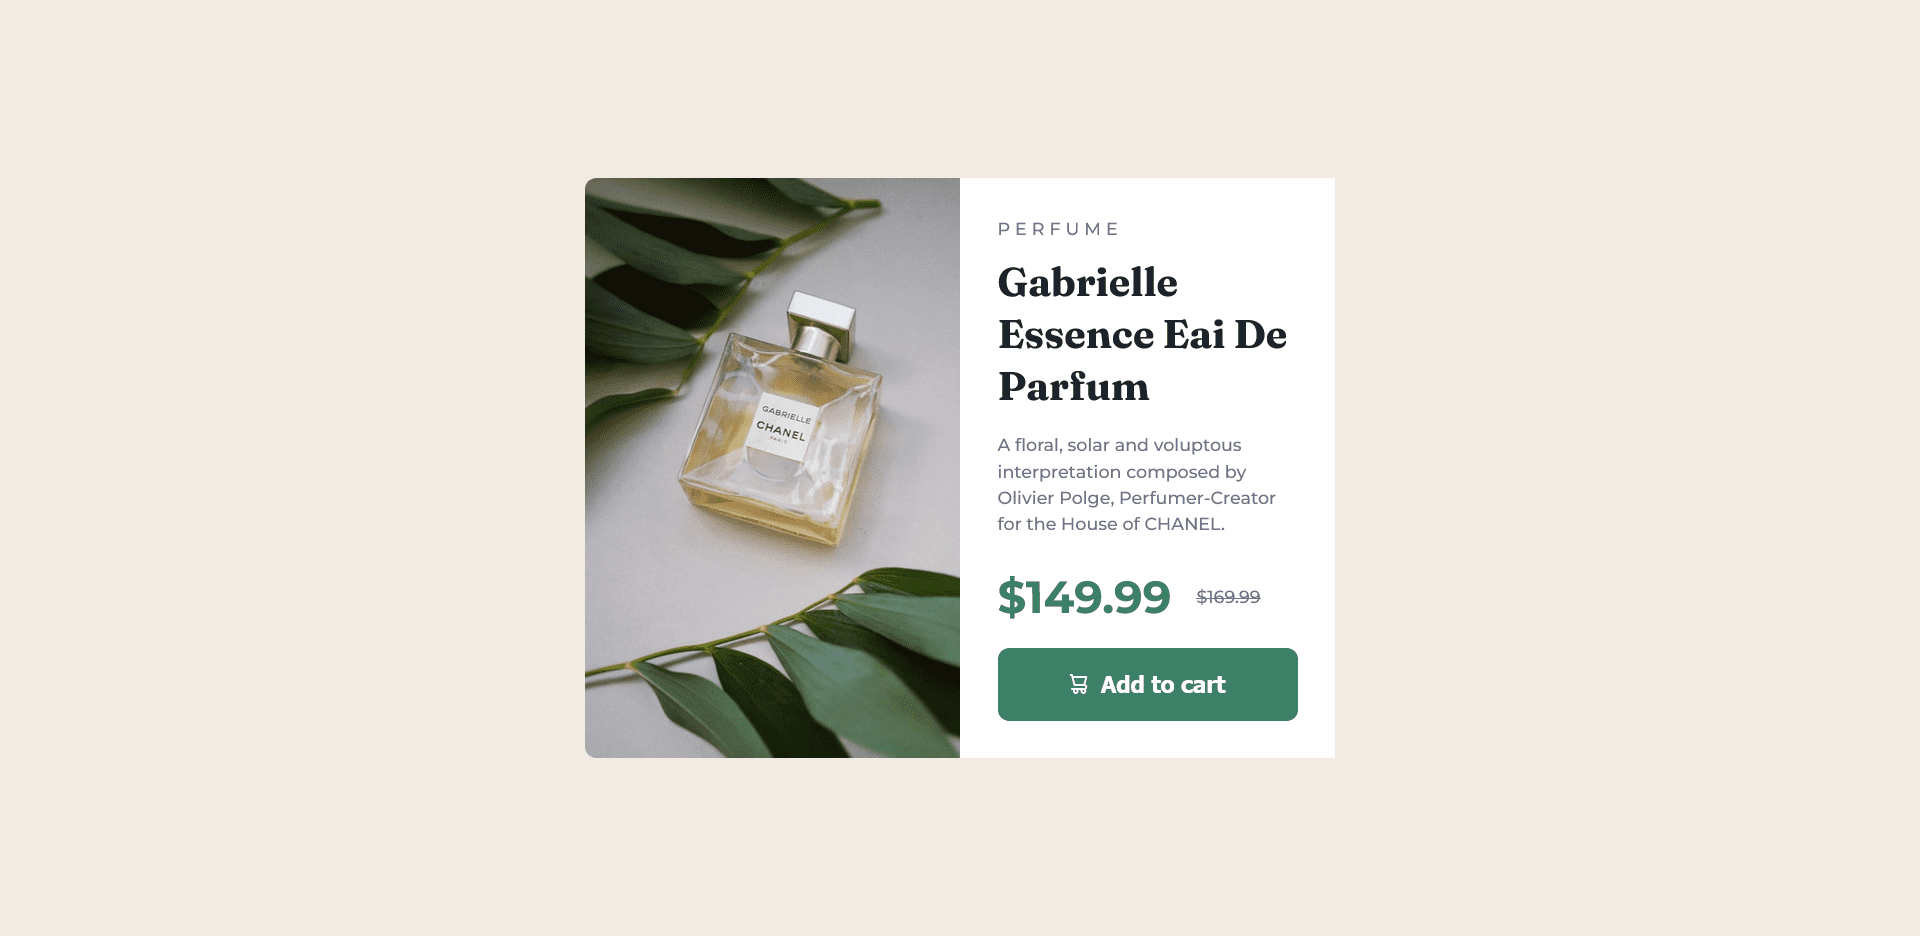
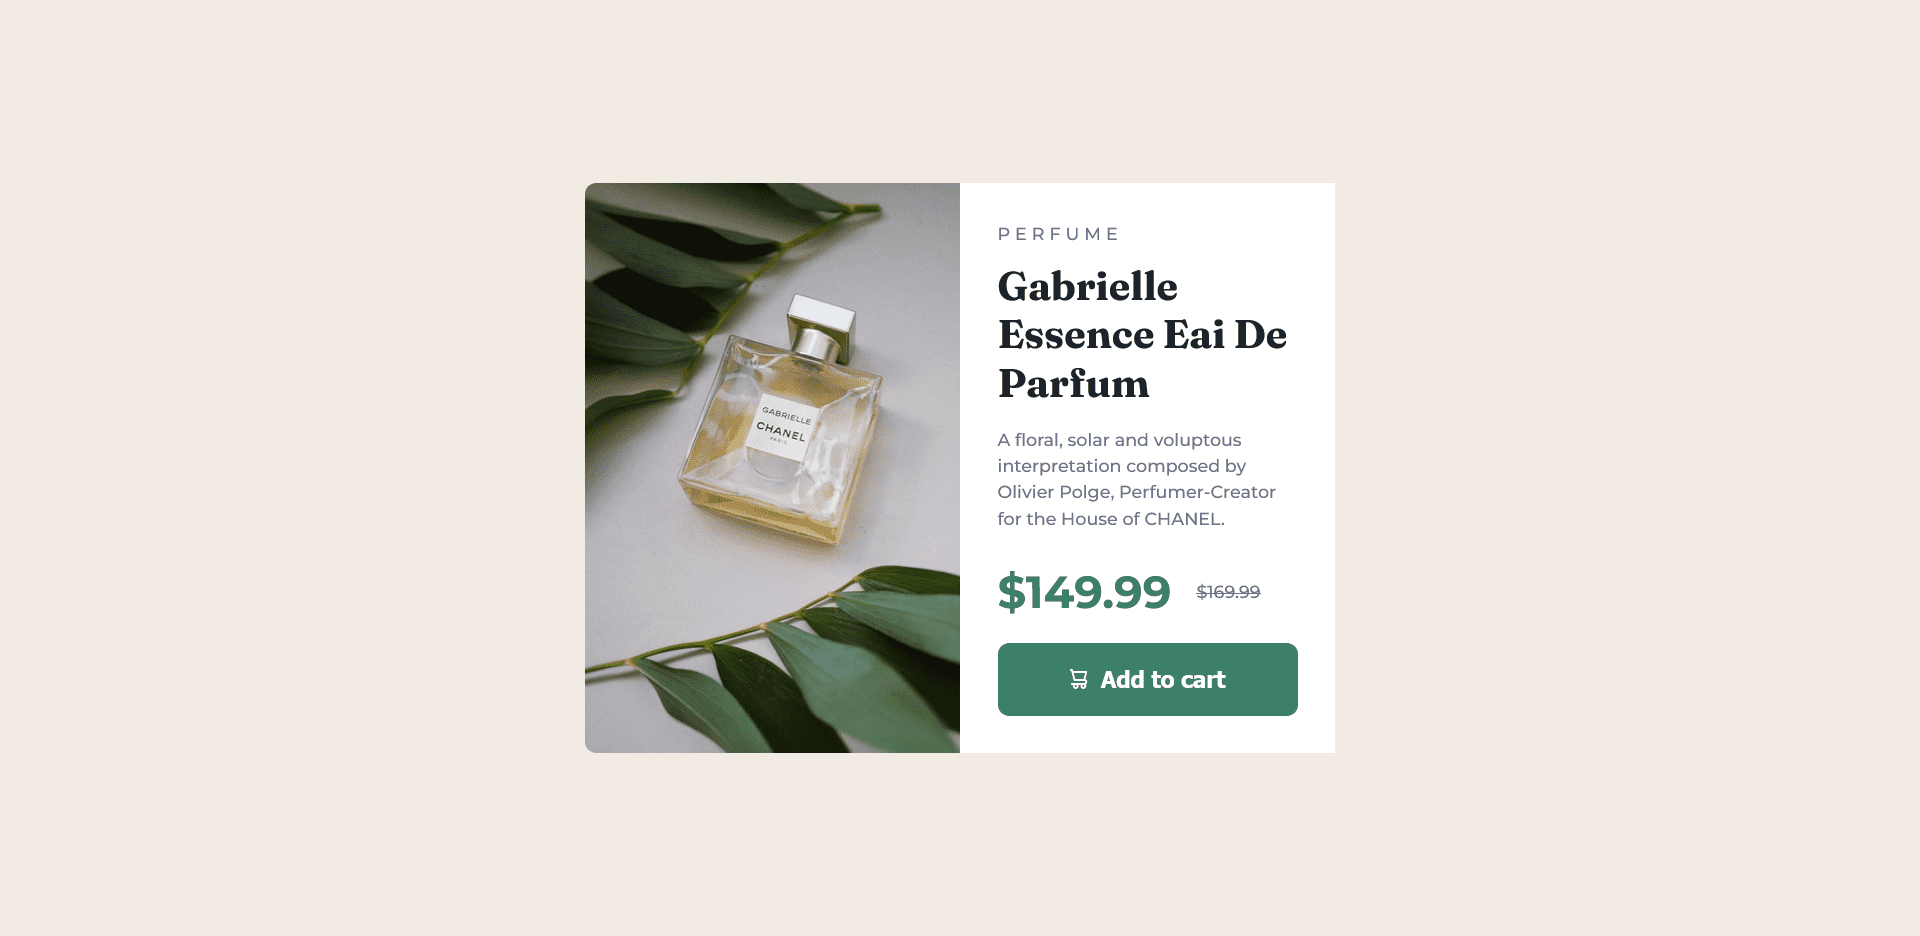
add new ss

diff --git a/styles.css b/styles.css
@@ -146,6 +146,6 @@ img{
     }
 
     .prod-title {
-        line-height: 1.3;
+        line-height: 1.21;
     }
 }
